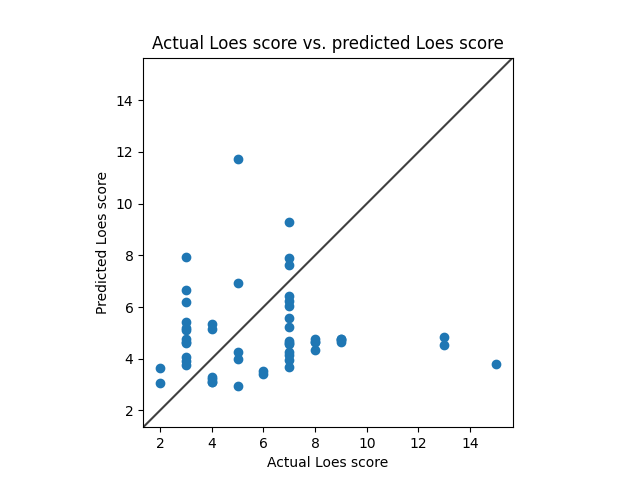
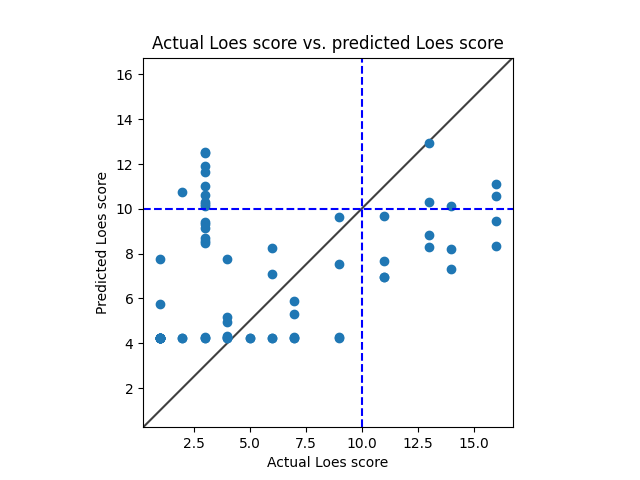
Redid Model 4 with stratification by score.

diff --git a/doc/LoesScoreModels.md b/doc/LoesScoreModels.md
@@ -58,11 +58,11 @@
   * 205 total cases
     * Ashish: 169
     * David: 36
-* Standardized RMSE: 2.0390140967745025
+* Standardized RMSE: 1.659556377232974
 ![Model 4](./img/model04.png "Model 4")
-* correlation:    0.011185159238607002
-* p-value:        0.9366429419513976
-* standard error: 0.08188842704604608
-* SLURM script: *../src/dcan/training/loes-scoring-training_model04_mesabi.sh*
+* correlation:    0.3296244064653097
+* p-value:        0.005327841565183674
+* standard error: 0.06979725258727118
+* SLURM script: *../bin/loes-scoring-training_model04_mesabi.sh*
 * Model: */home/feczk001/shared/data/AlexNet/LoesScoring/loes_scoring_04.pt*
 * Epochs: 512
